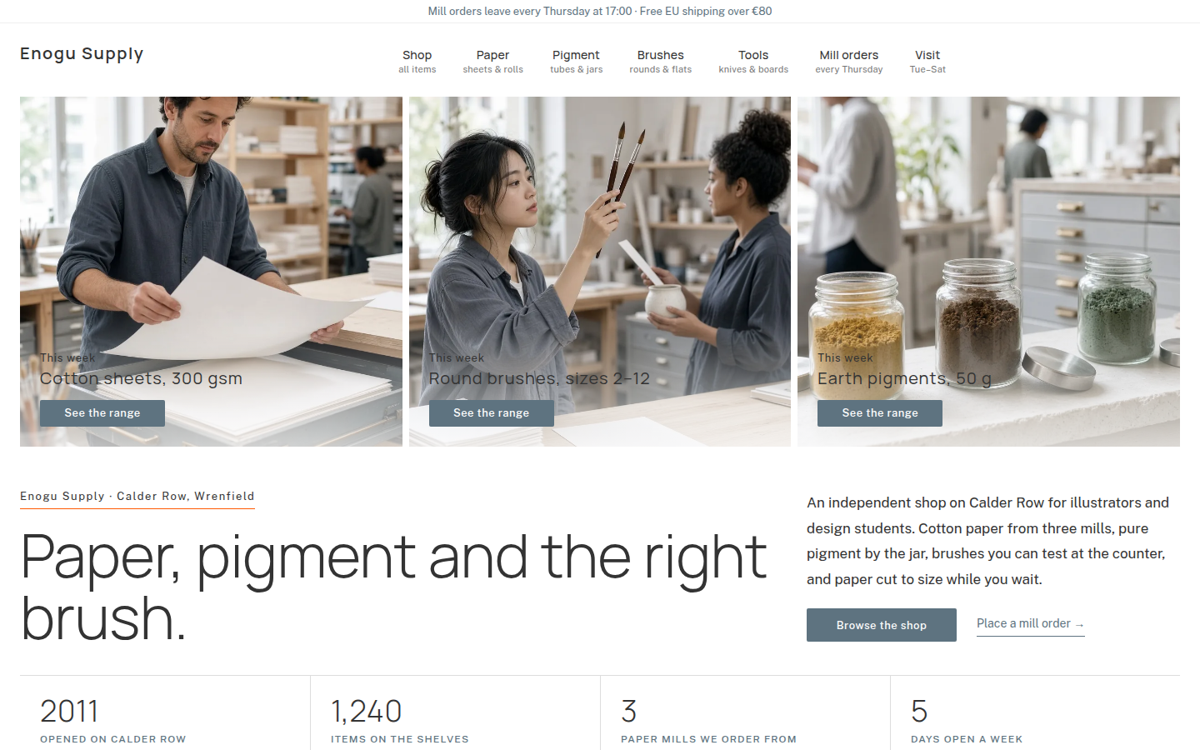
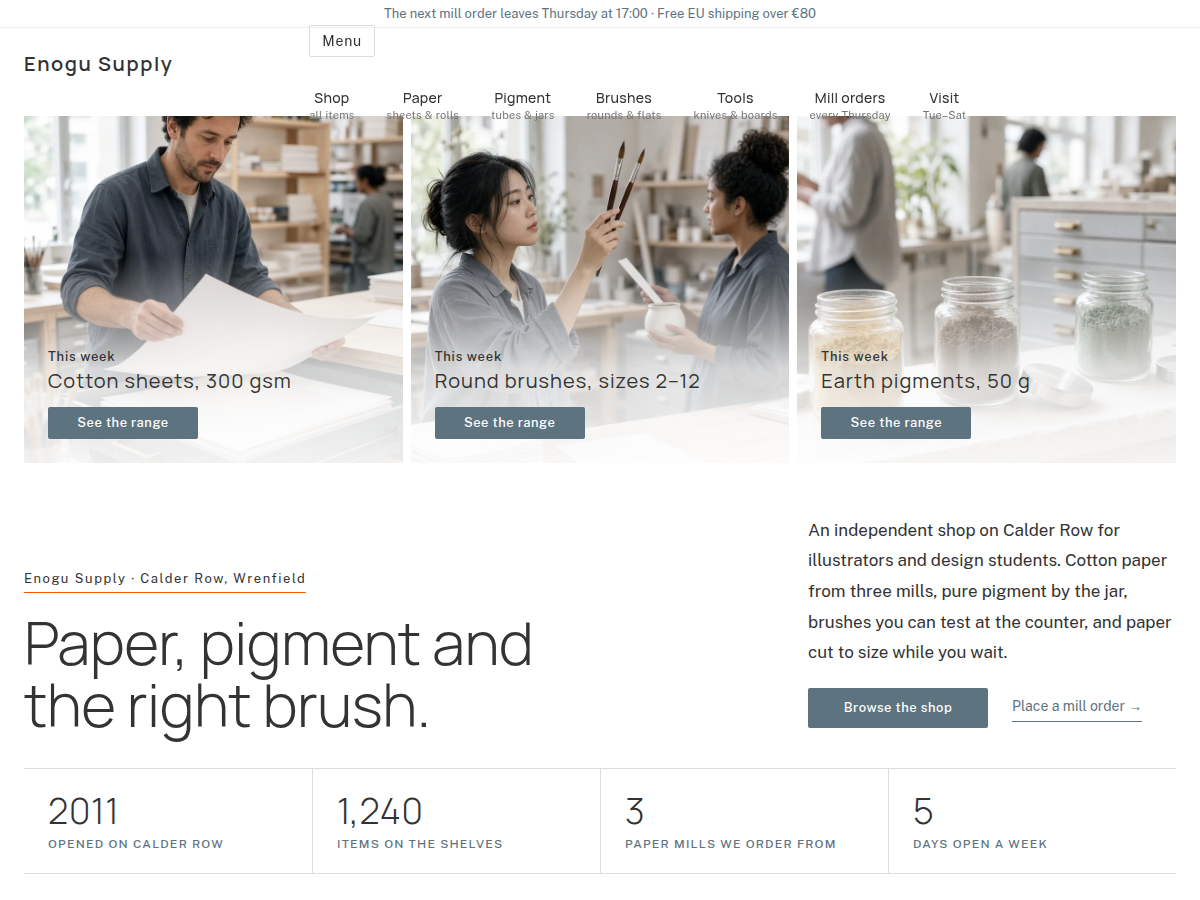
enogu-supply: stage-2 fix (readability, valid blocks, Menu button, README, screenshot)

diff --git a/themes/enogu-supply/style.css b/themes/enogu-supply/style.css
@@ -93,9 +93,9 @@ img { max-width: 100%; height: auto; }
 .en-slide--2 img { object-position: 50% 40%; }
 .en-slide--3 img { object-position: 45% 60%; }
 .en-slide__b { opacity: 0; }
-.en-slide__scrim { position: absolute; left: 0; right: 0; bottom: 0; height: 55%; z-index: 1; margin: 0; background: linear-gradient(to top, rgba(255, 255, 255, .92) 0%, rgba(255, 255, 255, .8) 45%, rgba(255, 255, 255, 0)); pointer-events: none; }
+.en-slide__scrim { position: absolute; left: 0; right: 0; bottom: 0; height: 60%; z-index: 1; margin: 0; background: linear-gradient(to top, rgba(255, 255, 255, .92) 0%, rgba(255, 255, 255, .8) 45%, rgba(255, 255, 255, 0)); pointer-events: none; }
 .en-cap { position: absolute; left: 24px; bottom: 24px; z-index: 2; margin: 0; display: flex; flex-direction: column; align-items: flex-start; gap: 0; }
-.en-cap__a { margin: 0; font-size: 13px; line-height: 1.5; letter-spacing: .06em; color: var(--en-ink); }
+.en-cap__a { margin: 0; font-size: 13px; font-weight: 500; line-height: 1.5; letter-spacing: .06em; color: var(--en-ink); }
 .en-cap__b { margin: 0; font-family: var(--en-display); font-size: 20px; line-height: 1.4; letter-spacing: .05em; color: var(--en-ink); }
 .en-cap__tab { margin: 12px 0 0; }
 .en-cap__tab .wp-block-button__link, .en-tab .wp-block-button__link { display: flex; align-items: center; justify-content: center; width: 150px; height: 32px; padding: 0; border-radius: 2px; font-size: 13px; font-weight: 500; letter-spacing: .04em; line-height: 1; box-shadow: none; }
@@ -130,11 +130,12 @@ img { max-width: 100%; height: auto; }
 .en-panel > .wp-block-image { height: 100%; margin: 0; }
 .en-panel > .wp-block-image a { display: block; height: 100%; }
 .en-panel > .wp-block-image img { width: 100%; height: 100%; object-fit: cover; }
-.en-band::after { content: ""; position: absolute; inset: 0; z-index: 1; background: rgba(40, 48, 56, .18); pointer-events: none; }
-.en-band__title { position: absolute; left: 50%; top: 50%; z-index: 3; transform: translate(-50%, -50%); margin: 0; font-family: var(--en-display); font-size: 36px; font-weight: 300; line-height: 1.2; letter-spacing: .08em; color: #fff; white-space: nowrap; text-shadow: 0 1px 12px rgba(0, 0, 0, .25); pointer-events: none; }
-.en-panel__label { position: absolute; left: 20px; bottom: 20px; z-index: 3; margin: 0; font-size: 12px; line-height: 1.4; letter-spacing: .14em; text-transform: uppercase; }
+.en-band::after { content: ""; position: absolute; inset: 0; z-index: 1; background: rgba(40, 48, 56, .28); pointer-events: none; }
+.en-band__title { position: absolute; left: 50%; top: 50%; z-index: 3; transform: translate(-50%, -50%); margin: 0; font-family: var(--en-display); font-size: 36px; font-weight: 300; line-height: 1.2; letter-spacing: .08em; color: #fff; white-space: nowrap; text-shadow: 0 1px 3px rgba(0, 0, 0, .5), 0 1px 14px rgba(0, 0, 0, .35); pointer-events: none; }
+.en-panel__label { position: absolute; left: 20px; bottom: 20px; z-index: 3; margin: 0; font-size: 13px; font-weight: 600; line-height: 1.4; letter-spacing: .14em; text-transform: uppercase; text-shadow: 0 1px 3px rgba(0, 0, 0, .5); }
 .en-panel__label a { color: #fff; text-decoration: none; }
 .en-panel { isolation: isolate; }
+.en-panel::after { content: ""; position: absolute; inset: 0; z-index: 2; background: linear-gradient(to top, rgba(30, 36, 42, .5), rgba(30, 36, 42, 0) 45%); pointer-events: none; }
 .en-panel:has(.en-panel__label a):hover img { transform: scale(1.03); }
 .en-panel img { transition: transform .8s cubic-bezier(.23, 1, .32, 1); }
 
@@ -201,7 +202,7 @@ img { max-width: 100%; height: auto; }
 .en-weektable th, .en-weektable td { border: 0; border-top: 1px solid #E5E5E5; padding: 14px 12px 14px 0; vertical-align: top; text-align: left; }
 .en-weektable tbody tr:last-child th, .en-weektable tbody tr:last-child td { border-bottom: 1px solid #E5E5E5; }
 .en-weektable tbody th { width: 72px; font-family: var(--en-display); font-size: 14px; font-weight: 500; letter-spacing: .1em; text-transform: uppercase; color: var(--en-slate); }
-.en-weektable td.en-wk__h { white-space: nowrap; text-align: right; padding-right: 0; font-size: 14px; color: var(--en-ink); }
+.en-weektable td:last-child { white-space: nowrap; text-align: right; padding-right: 0; font-size: 14px; color: var(--en-ink); }
 
 /* ---------- six category line icons ---------- */
 .en-cats { padding: 128px var(--en-gut) 128px; }
@@ -298,7 +299,9 @@ img { max-width: 100%; height: auto; }
 	.en-band { aspect-ratio: auto; height: 240px; }
 	.en-band__panels { grid-template-columns: 1fr 1fr; grid-template-rows: 1fr 1fr; }
 	.en-band__title { font-size: 24px; }
-	.en-panel__label { left: 12px; bottom: 10px; font-size: 11px; }
+	.en-panel__label { left: 12px; bottom: 10px; font-size: 12px; }
+	.en-panel:nth-child(-n+2) .en-panel__label { bottom: auto; top: 10px; }
+	.en-panel:nth-child(-n+2)::after { background: linear-gradient(to bottom, rgba(30, 36, 42, .5), rgba(30, 36, 42, 0) 45%); }
 	.en-picks-sec, .en-story, .en-notice-sec, .en-week { padding-top: 88px; }
 	.en-notice { gap: 12px; }
 	.en-notice__t { font-size: 14px; }
@@ -310,7 +313,7 @@ img { max-width: 100%; height: auto; }
 	.en-weektable tr { padding: 12px 0; border-top: 1px solid #E5E5E5; }
 	.en-weektable th, .en-weektable td { border: 0; padding: 0; }
 	.en-weektable tbody tr:last-child th, .en-weektable tbody tr:last-child td { border-bottom: 0; }
-	.en-weektable td.en-wk__h { text-align: right; margin-top: 4px; }
+	.en-weektable td:last-child { text-align: right; margin-top: 4px; }
 	.en-weektable tbody th { width: auto; }
 	.en-cats { padding-top: 88px; padding-bottom: 88px; }
 	.en-cat .en-icon { width: 72px; height: 72px; }
@@ -325,3 +328,9 @@ img { max-width: 100%; height: auto; }
 .en-product { display: grid; grid-template-columns: 1fr 1fr; gap: 56px; max-width: 950px; margin: 0 auto; }
 .en-product__title { font-size: 1.75rem; font-weight: 400; letter-spacing: .05em; margin: 0 0 12px; }
 @media (max-width: 781px) { .en-product { grid-template-columns: 1fr; gap: 24px; } }
+
+/* ---------- mobile header: "Menu" text button ---------- */
+.en-nav .wp-block-navigation__responsive-container-open { display: inline-flex; align-items: center; height: 32px; padding: 0 12px; border: 1px solid var(--en-rule); border-radius: 2px; font-family: var(--en-display); font-size: 13px; font-weight: 500; letter-spacing: .06em; color: var(--en-ink); }
+.en-nav .wp-block-navigation__responsive-container-open svg { display: none; }
+.en-nav .wp-block-navigation__responsive-container-open::after { content: "Menu"; }
+@media (max-width: 781px) { .en-nav { margin-right: 0; } }

diff --git a/themes/enogu-supply/patterns/front-week.php b/themes/enogu-supply/patterns/front-week.php
@@ -23,8 +23,8 @@
 <figure class="wp-block-image size-full en-week__img"><img src="<?php echo enogu_supply_img( 'week-demo.webp' ); ?>" alt="<?php echo enogu_supply_a( 'alt_w1' ); ?>"/></figure>
 <!-- /wp:image -->
 
-<!-- wp:table {"className":"en-weektable"} -->
-<figure class="wp-block-table en-weektable"><table><tbody><tr><th scope="row"><?php echo esc_html( enogu_supply_t( 'd1' ) ); ?></th><td><?php echo esc_html( enogu_supply_t( 'd1t' ) ); ?></td><td class="en-wk__h"><?php echo esc_html( enogu_supply_t( 'd1h' ) ); ?></td></tr><tr><th scope="row"><?php echo esc_html( enogu_supply_t( 'd2' ) ); ?></th><td><?php echo esc_html( enogu_supply_t( 'd2t' ) ); ?></td><td class="en-wk__h"><?php echo esc_html( enogu_supply_t( 'd2h' ) ); ?></td></tr><tr><th scope="row"><?php echo esc_html( enogu_supply_t( 'd3' ) ); ?></th><td><?php echo esc_html( enogu_supply_t( 'd3t' ) ); ?></td><td class="en-wk__h"><?php echo esc_html( enogu_supply_t( 'd3h' ) ); ?></td></tr><tr><th scope="row"><?php echo esc_html( enogu_supply_t( 'd4' ) ); ?></th><td><?php echo esc_html( enogu_supply_t( 'd4t' ) ); ?></td><td class="en-wk__h"><?php echo esc_html( enogu_supply_t( 'd4h' ) ); ?></td></tr><tr><th scope="row"><?php echo esc_html( enogu_supply_t( 'd5' ) ); ?></th><td><?php echo esc_html( enogu_supply_t( 'd5t' ) ); ?></td><td class="en-wk__h"><?php echo esc_html( enogu_supply_t( 'd5h' ) ); ?></td></tr><tr><th scope="row"><?php echo esc_html( enogu_supply_t( 'd6' ) ); ?></th><td><?php echo esc_html( enogu_supply_t( 'd6t' ) ); ?></td><td class="en-wk__h"><?php echo esc_html( enogu_supply_t( 'd6h' ) ); ?></td></tr><tr><th scope="row"><?php echo esc_html( enogu_supply_t( 'd7' ) ); ?></th><td><?php echo esc_html( enogu_supply_t( 'd7t' ) ); ?></td><td class="en-wk__h"><?php echo esc_html( enogu_supply_t( 'd7h' ) ); ?></td></tr></tbody></table></figure>
+<!-- wp:table {"hasFixedLayout":false,"className":"en-weektable"} -->
+<figure class="wp-block-table en-weektable"><table><tbody><tr><th scope="row"><?php echo esc_html( enogu_supply_t( 'd1' ) ); ?></th><td><?php echo esc_html( enogu_supply_t( 'd1t' ) ); ?></td><td><?php echo esc_html( enogu_supply_t( 'd1h' ) ); ?></td></tr><tr><th scope="row"><?php echo esc_html( enogu_supply_t( 'd2' ) ); ?></th><td><?php echo esc_html( enogu_supply_t( 'd2t' ) ); ?></td><td><?php echo esc_html( enogu_supply_t( 'd2h' ) ); ?></td></tr><tr><th scope="row"><?php echo esc_html( enogu_supply_t( 'd3' ) ); ?></th><td><?php echo esc_html( enogu_supply_t( 'd3t' ) ); ?></td><td><?php echo esc_html( enogu_supply_t( 'd3h' ) ); ?></td></tr><tr><th scope="row"><?php echo esc_html( enogu_supply_t( 'd4' ) ); ?></th><td><?php echo esc_html( enogu_supply_t( 'd4t' ) ); ?></td><td><?php echo esc_html( enogu_supply_t( 'd4h' ) ); ?></td></tr><tr><th scope="row"><?php echo esc_html( enogu_supply_t( 'd5' ) ); ?></th><td><?php echo esc_html( enogu_supply_t( 'd5t' ) ); ?></td><td><?php echo esc_html( enogu_supply_t( 'd5h' ) ); ?></td></tr><tr><th scope="row"><?php echo esc_html( enogu_supply_t( 'd6' ) ); ?></th><td><?php echo esc_html( enogu_supply_t( 'd6t' ) ); ?></td><td><?php echo esc_html( enogu_supply_t( 'd6h' ) ); ?></td></tr><tr><th scope="row"><?php echo esc_html( enogu_supply_t( 'd7' ) ); ?></th><td><?php echo esc_html( enogu_supply_t( 'd7t' ) ); ?></td><td><?php echo esc_html( enogu_supply_t( 'd7h' ) ); ?></td></tr></tbody></table></figure>
 <!-- /wp:table -->
 </div>
 <!-- /wp:group -->

diff --git a/themes/enogu-supply/patterns/front-hero.php b/themes/enogu-supply/patterns/front-hero.php
@@ -22,7 +22,7 @@
 <!-- /wp:image -->
 
 <!-- wp:group {"className":"en-slide__scrim","layout":{"type":"default"}} -->
-<div class="wp-block-group en-slide__scrim" aria-hidden="true"></div>
+<div class="wp-block-group en-slide__scrim"></div>
 <!-- /wp:group -->
 
 <!-- wp:group {"className":"en-cap","layout":{"type":"default"}} -->
@@ -56,7 +56,7 @@
 <!-- /wp:image -->
 
 <!-- wp:group {"className":"en-slide__scrim","layout":{"type":"default"}} -->
-<div class="wp-block-group en-slide__scrim" aria-hidden="true"></div>
+<div class="wp-block-group en-slide__scrim"></div>
 <!-- /wp:group -->
 
 <!-- wp:group {"className":"en-cap","layout":{"type":"default"}} -->
@@ -90,7 +90,7 @@
 <!-- /wp:image -->
 
 <!-- wp:group {"className":"en-slide__scrim","layout":{"type":"default"}} -->
-<div class="wp-block-group en-slide__scrim" aria-hidden="true"></div>
+<div class="wp-block-group en-slide__scrim"></div>
 <!-- /wp:group -->
 
 <!-- wp:group {"className":"en-cap","layout":{"type":"default"}} -->

diff --git a/themes/enogu-supply/patterns/header-main.php b/themes/enogu-supply/patterns/header-main.php
@@ -23,7 +23,7 @@
 <!-- /wp:group -->
 
 <!-- wp:group {"className":"en-bar","align":"wide","layout":{"type":"default"}} -->
-<div class="wp-block-group alignfull en-bar">
+<div class="wp-block-group alignwide en-bar">
 <!-- wp:group {"className":"en-brand","layout":{"type":"default"}} -->
 <div class="wp-block-group en-brand">
 <!-- wp:site-title {"level":0,"className":"en-brand__title"} /-->

diff --git a/themes/enogu-supply/README.md b/themes/enogu-supply/README.md
@@ -1,0 +1,12 @@
+# Enogu Supply
+
+A calm, photo-led WooCommerce block theme for an independent art-supply shop that sells paper, pigment, brushes and studio tools to illustrators and design students.
+
+- Home: a promo strip and one top bar, three equal captioned photo columns that crossfade slowly (plan chest, brush counter, pigment jars) with the headline below the photos and a four-figure stats row, four abutting rounded range panels under one light title, product tiles on pale grey, a vertical tagline story, a mill-order band with a slow parallax drift, the shop week as a spec table, six line icons and a Thursday letter band.
+- Inner pages: Shop, Paper, Pigment, Brushes, Studio tools, Mill orders, Price list, Visit, About, Contact, Newsletter and the Journal list; the one top menu links the ranges, mill orders and the visit page.
+- Fonts: Manrope and Public Sans (bundled, OFL); Noto Sans TC and Noto Sans JP for Chinese and Japanese headings.
+- Scroll effects: sp-reveal (up + stagger, zoom) and one sp-parallax band; all off with reduced motion and visible without JavaScript.
+- Forms: `shippress_form_slot` newsletter on the home page and the Newsletter page; works without plugins (mailto fallback with a visible notice).
+- WooCommerce: optional; sample products are added when it is active, and the home tiles link to them.
+- Design notes: `brand.md`, `brand/design-spec.md`, `brand/reference.md`.
+- Photography: AI-generated high-key documentary photographs.

diff --git a/themes/enogu-supply/brand/reference-tokens.md b/themes/enogu-supply/brand/reference-tokens.md
@@ -10,7 +10,7 @@ Primary reference: https://kakimori.com/ (independent stationery shop, product-p
 | Hero photo | desaturated warm brass / grey-lilac (#8C8A92 to #E8E6E2) | first screen ~100% photo, saturated share < 8% |
 | Accent | #FF5800 orange, only as 1px title underlines, 1px tagline rules, active language link | < 1% |
 | Banner photo tints | indigo/teal/blush product macros inside one r8 band | ~4% |
-Relationship to carry over: white page, near-black text, almost no UI colour, accent confined to hairlines; photographs carry all colour. Ours: slate #5E7380 as the single hairline/accent colour in place of orange.
+Relationship to carry over: white page, near-black text, almost no UI colour, accent confined to hairlines; photographs carry all colour. Ours: the orange #FF5800 stays as the hairline-only accent (under 1% of the page), and slate #5E7380 replaces the reference grey on flat buttons and labels.
 
 ## (b) Type
 - Body: Zen Kaku Gothic New 16px / 28.8px (1.8), weight 400, ls normal, #333.
